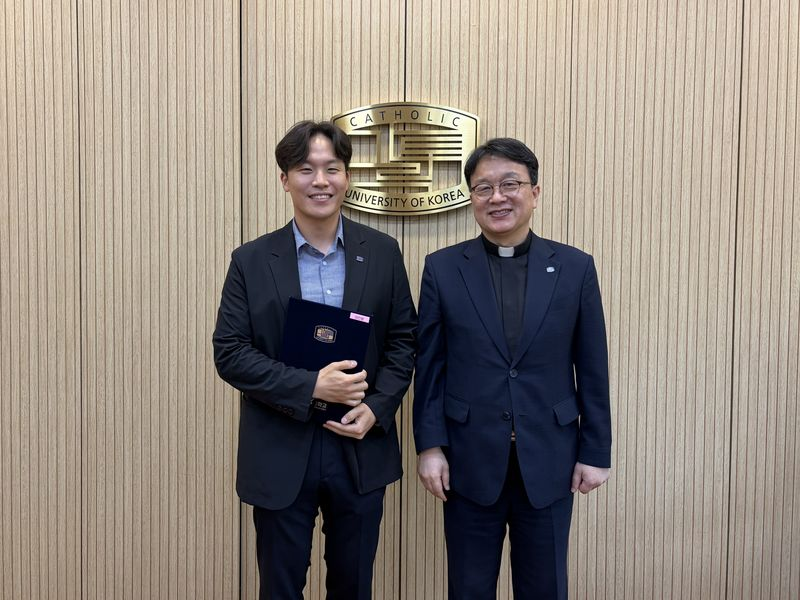
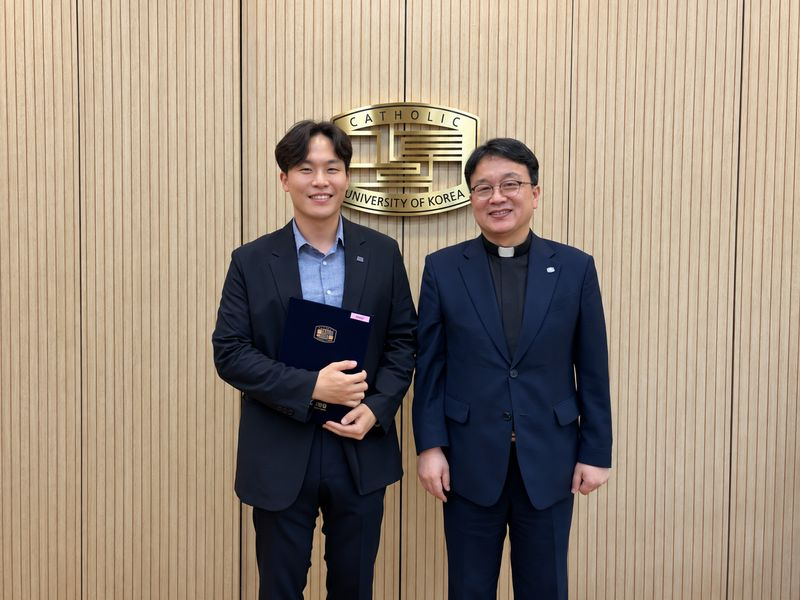
Use the retouched letter-of-appointment photo
Claude-Session: https://claude.ai/code/session_01GNcS1kmZvkTUuwnAtVXsAb

diff --git a/gallery.html b/gallery.html
@@ -21,7 +21,7 @@
 <div class="gallery-grid">
 <figure class="gallery-item featured"><img src="assets/img/gallery/new-profs-2000.jpg" alt="Newly appointed faculty of The Catholic University of Korea at the 2026 fall-semester orientation" loading="lazy" width="2000" height="1333"><figcaption>New faculty orientation, Songsim Campus, Aug. 25–26, 2026</figcaption></figure>
 <figure class="gallery-item"><img src="assets/img/gallery/appointment-1600.jpg" alt="Jinyoung Lee at the new faculty appointment ceremony" loading="lazy" width="1600" height="1200"><figcaption>Appointment ceremony at the faculty meeting, Aug. 2026</figcaption></figure>
-<figure class="gallery-item"><img src="assets/img/gallery/appointment-letter-1600.jpg" alt="Jinyoung Lee with the President of The Catholic University of Korea, holding the letter of appointment" loading="lazy" width="1600" height="1221"><figcaption>Receiving the letter of appointment from the President, Aug. 2026</figcaption></figure>
+<figure class="gallery-item"><img src="assets/img/gallery/appointment-letter-1600.jpg?v=2" alt="Jinyoung Lee with the President of The Catholic University of Korea, holding the letter of appointment" loading="lazy" width="1437" height="1095"><figcaption>Receiving the letter of appointment from the President, Aug. 2026</figcaption></figure>
 <figure class="gallery-item"><img src="assets/img/gallery/rootlab-intro-1600.jpg" alt="Jinyoung Lee introducing ROOT Lab at the faculty meeting" loading="lazy" width="1600" height="1235"><figcaption>Introducing ROOT Lab at the faculty meeting, Aug. 2026</figcaption></figure>
 </div>
 </div>

diff --git a/index.html b/index.html
@@ -111,7 +111,7 @@
         <div class="home-album-strip">
           <img src="assets/img/gallery/new-profs-thumb.jpg" alt="New faculty orientation, Songsim Campus, 2026" loading="lazy" width="800" height="600">
           <img src="assets/img/gallery/appointment-thumb.jpg" alt="Appointment ceremony at the faculty meeting" loading="lazy" width="800" height="600">
-          <img src="assets/img/gallery/appointment-letter-thumb.jpg" alt="Receiving the letter of appointment from the President" loading="lazy" width="800" height="600">
+          <img src="assets/img/gallery/appointment-letter-thumb.jpg?v=2" alt="Receiving the letter of appointment from the President" loading="lazy" width="800" height="600">
           <img src="assets/img/gallery/rootlab-intro-thumb.jpg" alt="Introducing ROOT Lab at the faculty meeting" loading="lazy" width="800" height="600">
         </div>
       </a>
